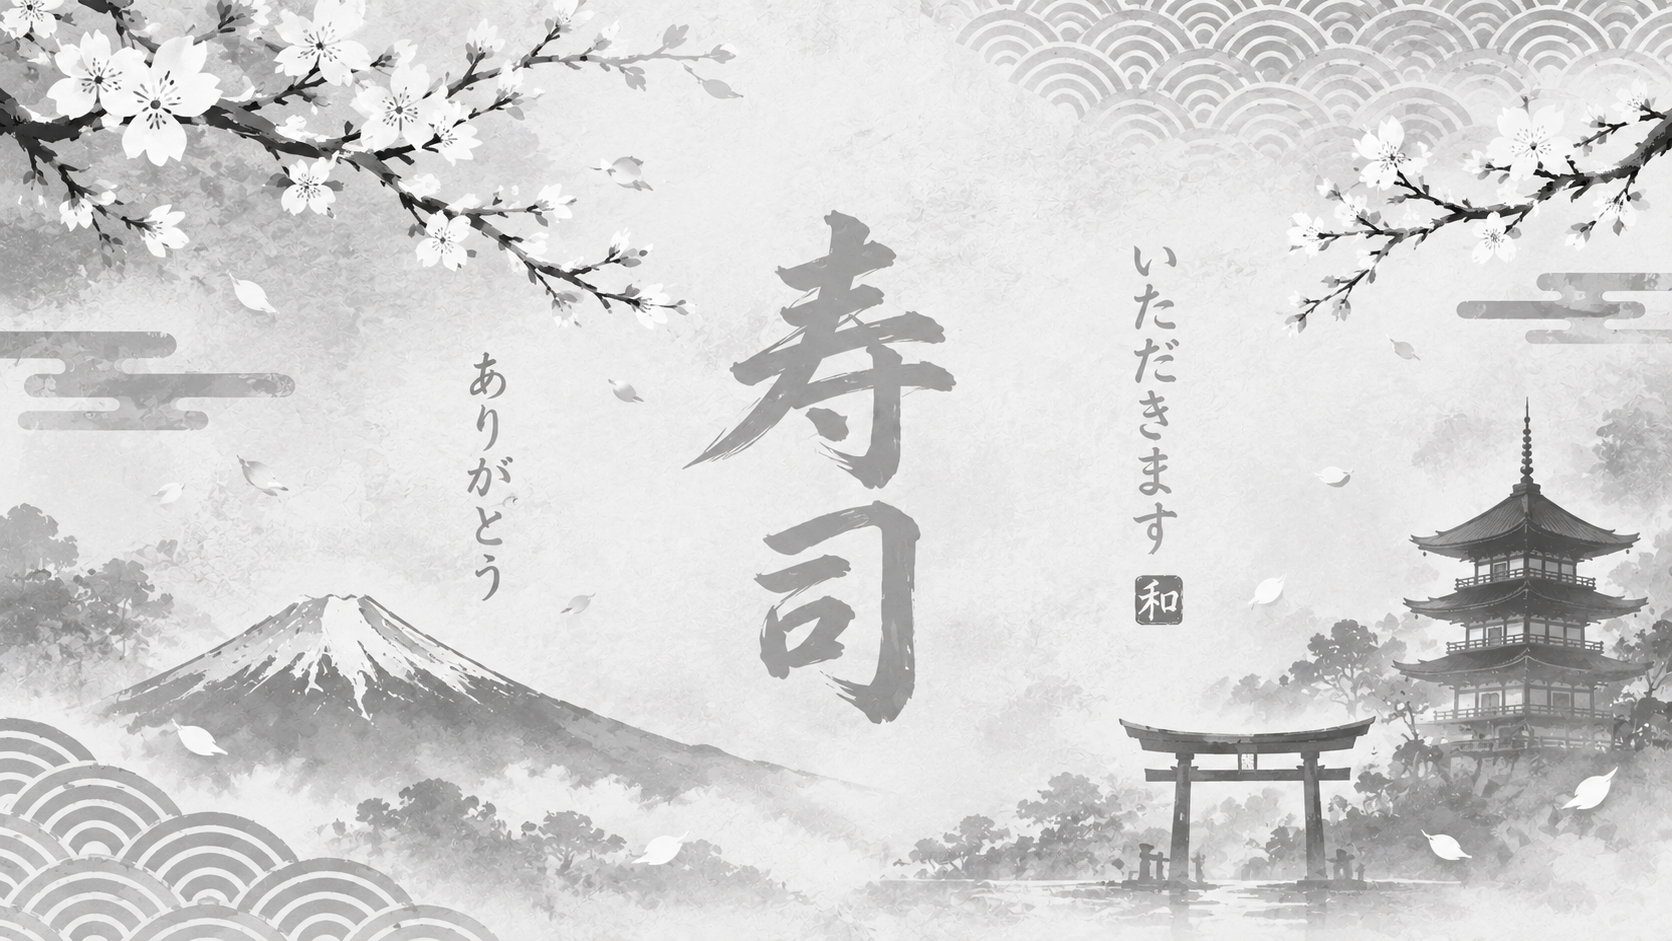
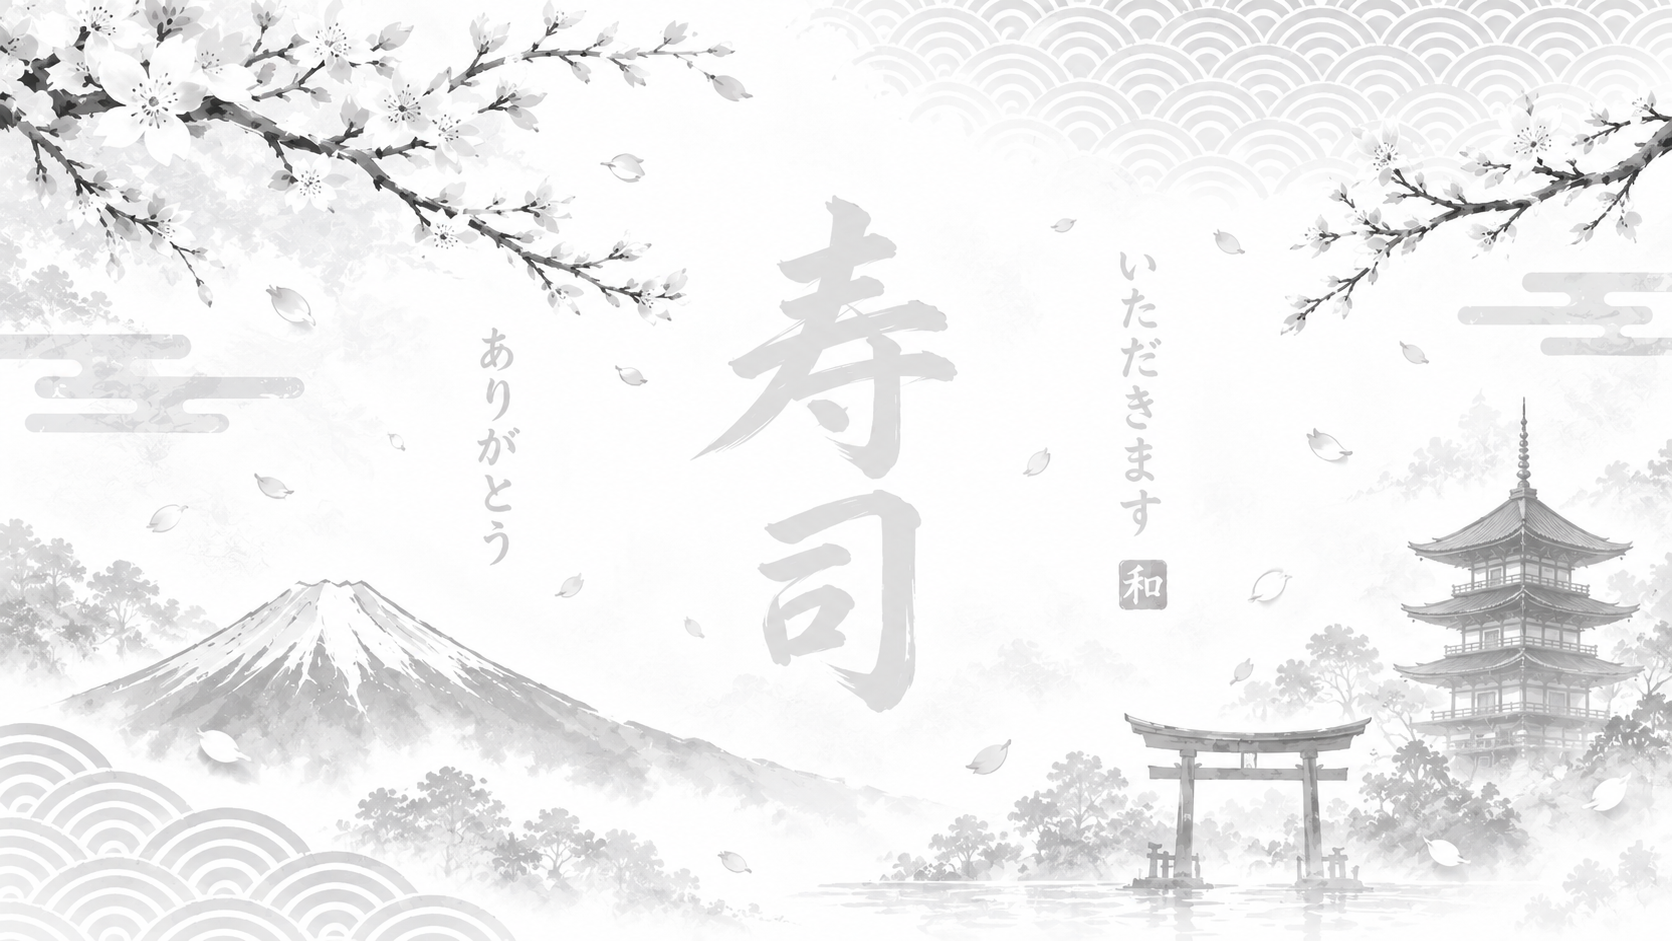
Add Container  and footer plus css file

diff --git a/frontend/src/components/Container/Container.jsx b/frontend/src/components/Container/Container.jsx
@@ -1,0 +1,128 @@
+
+import "./Container.css";
+
+const products = [
+  {
+    id: 1,
+    name: "Huîtres",
+    image: "/src/assets/card/Huitres.png", 
+    price: 55,
+    description: "Huîtres fraîches servies sur glace avec citron et sauce maison.",
+  },
+  {
+    id: 2,
+    name: "Asian Pizza",
+    image: "/src/assets/card/Asian_Pizza.png",
+    price: 85,
+    description: "Pizza aux saveurs asiatiques, garnie de fruits de mer et de légumes frais.",
+  },
+  {
+    id: 3,
+    name: "Soupes",
+    image: "/src/assets/card/Soupes.png",
+    price: 45,
+    description: "Soupe asiatique chaude et savoureuse, préparée avec des ingrédients frais.",
+  },
+  {
+    id: 4,
+    name: "Salades",
+    image: "/src/assets/card/Salades.png",
+    price: 55,
+    description: "Salade fraîche composée de légumes croquants et de sa sauce spéciale.",
+  },
+  {
+    id: 5,
+    name: "Ceviches",
+    image: "/src/assets/card/Ceviches.png",
+    price: 75,
+    description: "Poisson frais mariné au citron vert, accompagné de légumes et d'herbes.",
+  },
+  {
+    id: 6,
+    name: "Poke Bowls",
+    image: "/src/assets/card/Poke_Bowls.png",
+    price: 80,
+    description: "Bol gourmand de riz, poisson frais, avocat et légumes croquants.",
+  },
+  {
+    id: 7,
+    name: "Spring Rolls",
+    image: "/src/assets/card/Spring_Rolls.png",
+    price: 45,
+    description: "Rouleaux frais aux légumes et ingrédients asiatiques, accompagnés de sauce.",
+  },
+  {
+    id: 8,
+    name: "Nems 3 Pcs",
+    image: "/src/assets/card/Nems_3_Pcs.png",
+    price: 40,
+    description: "Trois nems croustillants, garnis et servis avec une sauce maison.",
+  },
+  {
+    id: 9,
+    name: "Starters Mix",
+    image: "/src/assets/card/Starters_Mix.png",
+    price: 75,
+    description: "Assortiment de spécialités asiatiques croustillantes à partager.",
+  },
+  {
+    id: 10,
+    name: "Dynamites",
+    image: "/src/assets/card/Dynamites.png",
+    price: 70,
+    description: "Bouchées croustillantes enrobées d'une sauce dynamite légèrement épicée.",
+  },
+  {
+    id: 11,
+    name: "Tempura",
+    image: "/src/assets/card/Tempura.png",
+    price: 65,
+    description: "Crevettes et légumes en tempura, frits dans une pâte légère et croustillante.",
+  },
+  {
+    id: 12,
+    name: "Dim Sum",
+    image: "/src/assets/card/Dim_Sum.png",
+    price: 55,
+    description: "Assortiment de bouchées asiatiques délicatement préparées à la vapeur.",
+  },
+  {
+    id: 13,
+    name: "Supplement Cuisine",
+    image: "/src/assets/card/Supplement_Cuisine.png",
+    price: 15,
+    description: "Supplément au choix pour accompagner et personnaliser votre plat.",
+  },
+];
+
+function Container() {
+  return (
+    <section className="products-section">
+      <div className="products-grid">
+        {products.map((product) => (
+          <article className="product-card" key={product.id}>
+            <img
+              src={product.image}
+              alt={product.name}
+              className="product-image"
+            />
+
+            <div className="product-info">
+              <h3>{product.name}</h3>
+              <p>{product.description}</p>
+
+              <div className="product-footer">
+                <span className="product-price">
+                  {product.price} DH
+                </span>
+                <button className="add-button">+</button>
+              </div>
+            </div>
+          </article>
+        ))}
+      </div>
+    </section>
+  );
+}
+
+export default Container;

diff --git a/frontend/src/App.jsx b/frontend/src/App.jsx
@@ -1,6 +1,6 @@
 import './App.css'
 import './index.css'
-import MaxCard from './components/MaxCard';
+import Container from './components/Container/Container';
 import Header from './components/layout/Header';
 import Foter from './components/layout/Foter';
 import CategoryFilter from './components/CategoryFilter/CategoryFilter';
@@ -15,12 +15,14 @@ function App() {
     <CategoryFilter />
       <main>
         <div className="maxcard">
-          <MaxCard name="Card 1 " title="firest card" size={33} />
-          <MaxCard name="Card 2 " title="second card" size={43} />
-          <MaxCard name="Card 3 " title="thered card" size={44} />
-          <MaxCard name="Card 4 " title="last card" size={41} />
-          <MaxCard name="Card 5 " title="5 card" size={44} />
-          <MaxCard name="Card 6 " title="6 card" size={41} />
+          <Container />
+          {/* 
+          <MaxCard coures="Card 1 " title="firest card" size={33} />
+          <MaxCard coures="Card 2 " title="second card" size={43} />
+          <MaxCard coures="Card 3 " title="thered card" size={44} />
+          <MaxCard coures="Card 4 " title="last card" size={41} />
+          <MaxCard coures="Card 5 " title="5 card" size={44} />
+          <MaxCard coures="Card 6 " title="6 card" size={41} /> */}
         </div>
       </main>
     <Foter />

diff --git a/frontend/src/components/layout/Foter.jsx b/frontend/src/components/layout/Foter.jsx
@@ -5,9 +5,15 @@ function Foter() {
     <>
       
         <div className="footer">
-          <strong> Learn from the best @2026</strong>
-          <p>Builde with passion</p>
-          <small>All right rezerved @2026</small>
+          <div className="sous-footer">
+          <strong> Politique de confidentialité</strong>
+          <span>•</span>
+          <strong>Conditions d'utilisation</strong>
+          </div>
+          
+          <p style={{ color: "#a3a3a3" , fontSize: "0.715rem" }}> 
+            © 2026 Sora Sushi & Wok. Tous droits réservés.
+            </p>
         </div>
        
     </>

diff --git a/frontend/src/components/layout/Header.jsx b/frontend/src/components/layout/Header.jsx
@@ -8,6 +8,7 @@ import {
   Phone,
   ShoppingCart,
   LogIn,
+  Images,
 } from "lucide-react";
 
 function Header() {
@@ -40,6 +41,11 @@ function Header() {
           <button className="action_btn" aria-label="Mode sombre">
             <Moon size={20} />
           </button>
+
+          <button className="action_btn" aria-label="Images">
+            <Images size={20} />
+          </button>
+          
 
           <button className="action_btn" aria-label="Téléphone">
             <Phone size={20} />

diff --git a/frontend/src/components/MaxCard.jsx b/frontend/src/components/MaxCard.jsx
@@ -1,13 +1,18 @@
 import "./maxcard.css";
 
-function MaxCard(parameter){
+function MaxCard(coures){
   
+    
+
+    const {name , title , size} = coures.coures;
+    
     return ( 
+        
     <div className="maxcard">
      <div className="grid_card">
-      <p  > nom : {parameter.name} </p>
-      <p  >title :{parameter.title}</p>
-      <p  >size :{parameter.size}</p>
+      <p> nom : {name} </p>
+      <p>title :{title}</p>
+      <p>size :{size}</p>  
       </div>
       </div>
   

diff --git a/frontend/src/components/layout/foter.css b/frontend/src/components/layout/foter.css
@@ -1,5 +1,5 @@
 .footer {
-    background: rgba(242, 242, 240, 0.90);
+    background: white;
     border-top: 1px solid #d6d6d6;
     color: black;
 
@@ -16,4 +16,14 @@
     padding: 10px 20px;
     box-sizing: border-box;
     
+}
+
+.sous-footer{
+     display: flex;
+     gap: 12px;
+     font-size: small;
+}
+.sous-footer span{
+     color: #6B9B45;
+     font-size: 1.125rem;
 }

diff --git a/frontend/src/components/layout/Header.css b/frontend/src/components/layout/Header.css
@@ -1,7 +1,8 @@
 
 .header_container {
     width: 100%;
-    background: rgba(242, 242, 240, 0.95);
+    background-color: #ffffff;
+    color: #222222;
     border-bottom: 1px solid #d6d6d6;
 }
 
@@ -20,8 +21,8 @@
 
 /* Logo */
 .logo img {
-    width: 85px;
-    height: 70px;
+    width: 100px;
+    height: 105px;
     object-fit: contain;
 }
 

diff --git a/frontend/src/components/Container/Container.css b/frontend/src/components/Container/Container.css
@@ -1,0 +1,13 @@
+.products-section{
+    width: 100%;
+    padding: 10px 5%;
+    margin-left: 30px;
+  
+}
+
+
+.products-grid{
+    color: black;
+    display: grid;
+    grid-template-columns: repeat(3, 1fr);
+}
